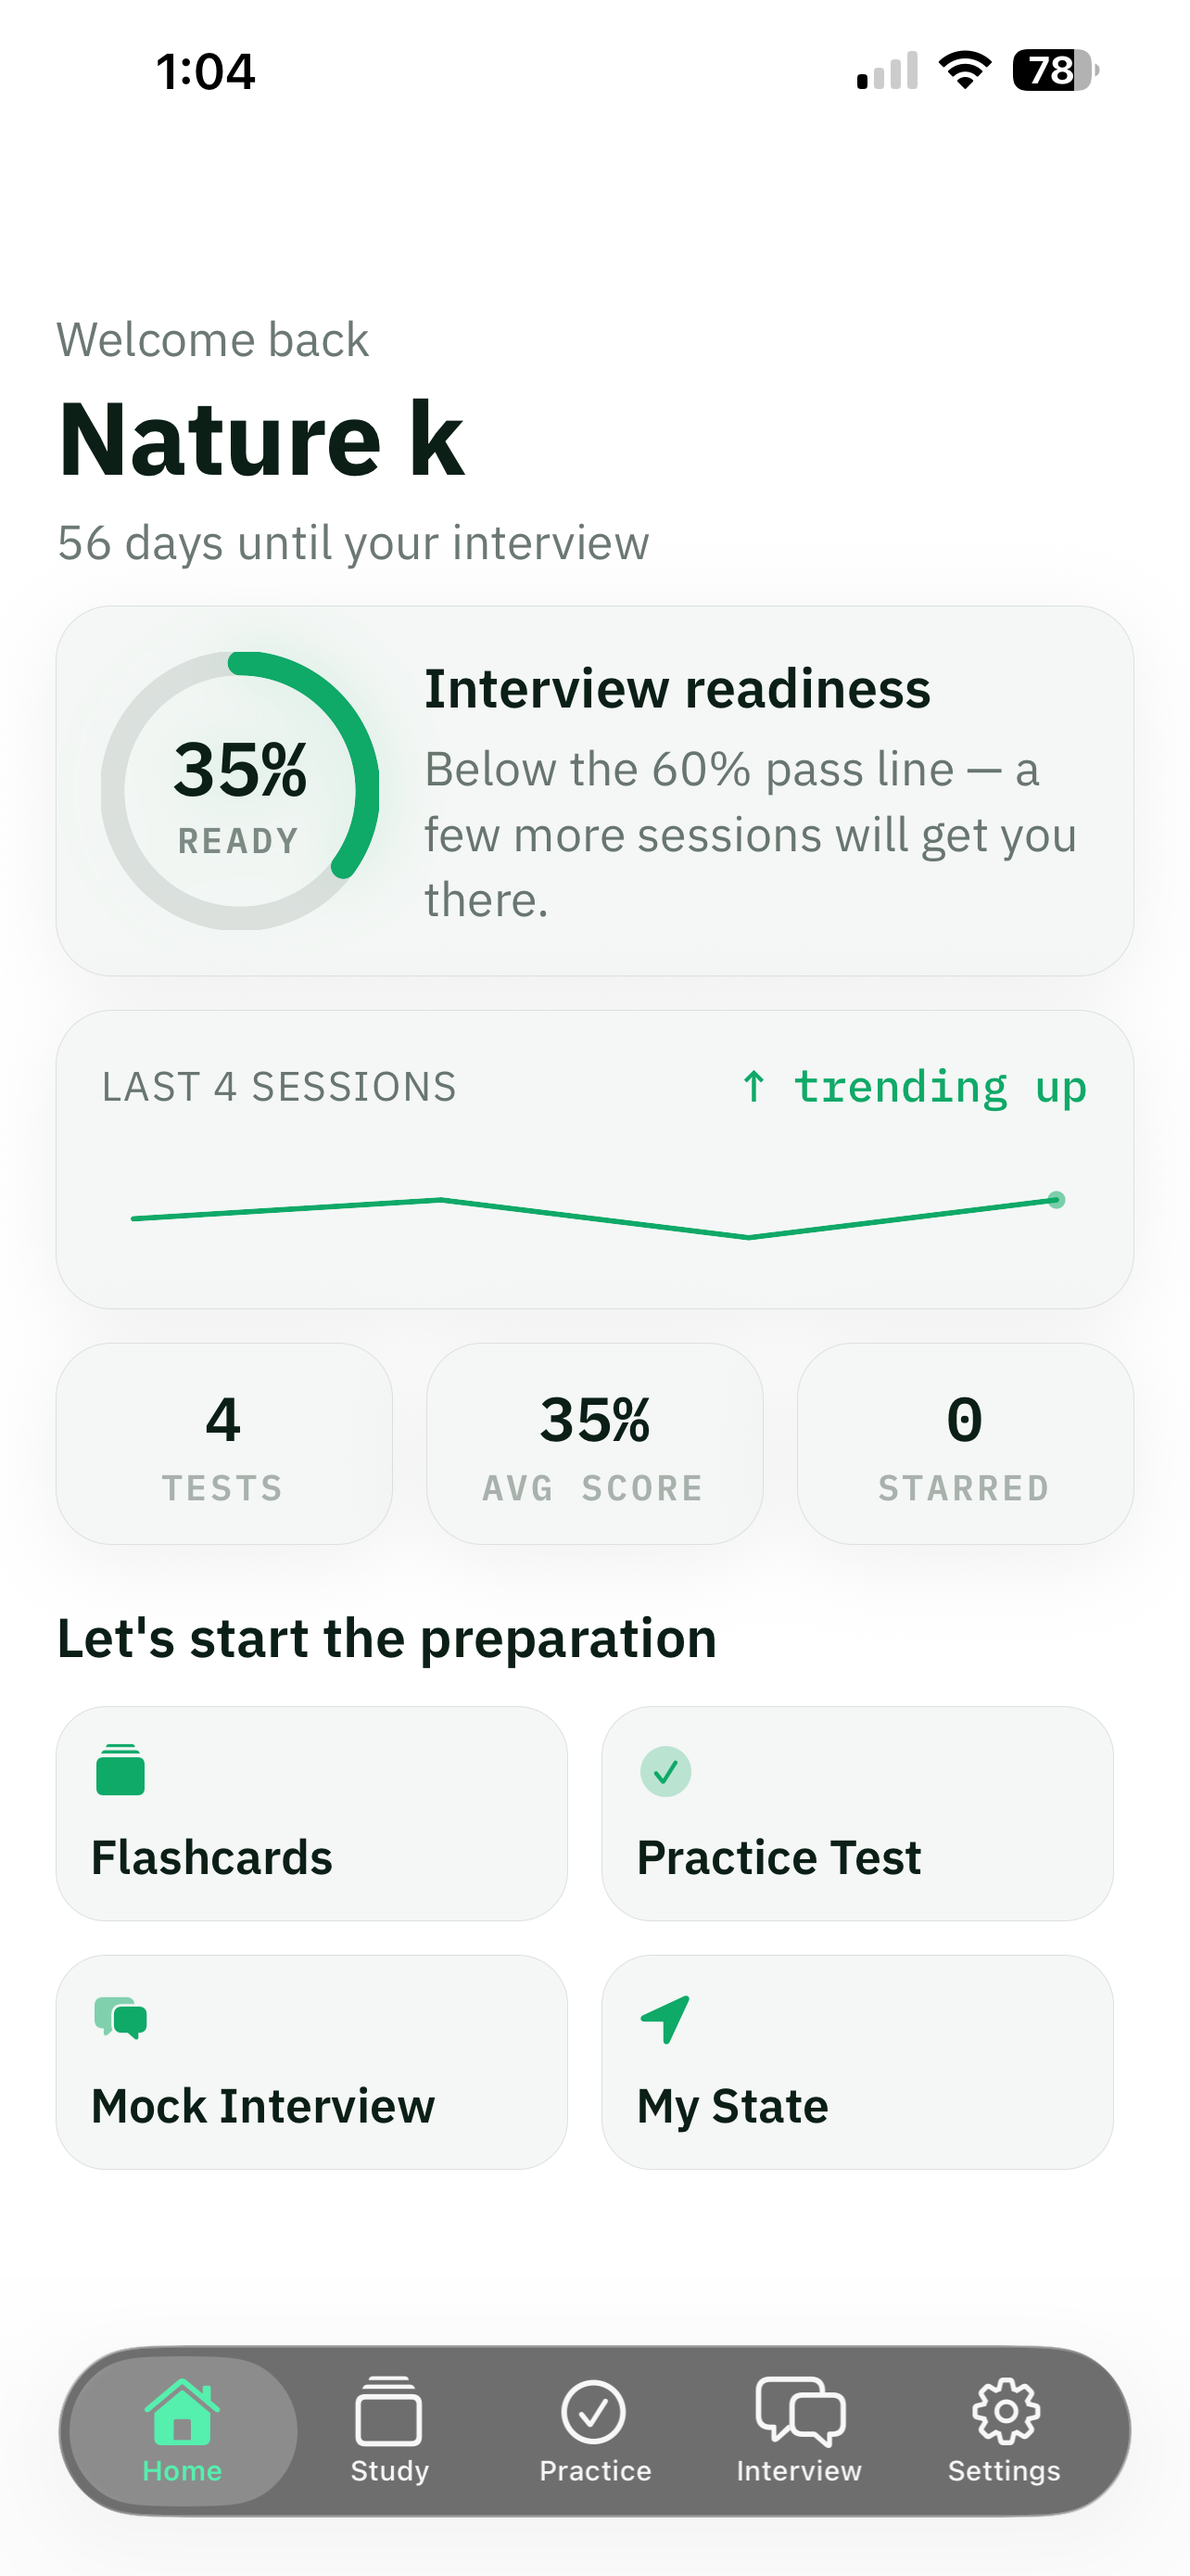
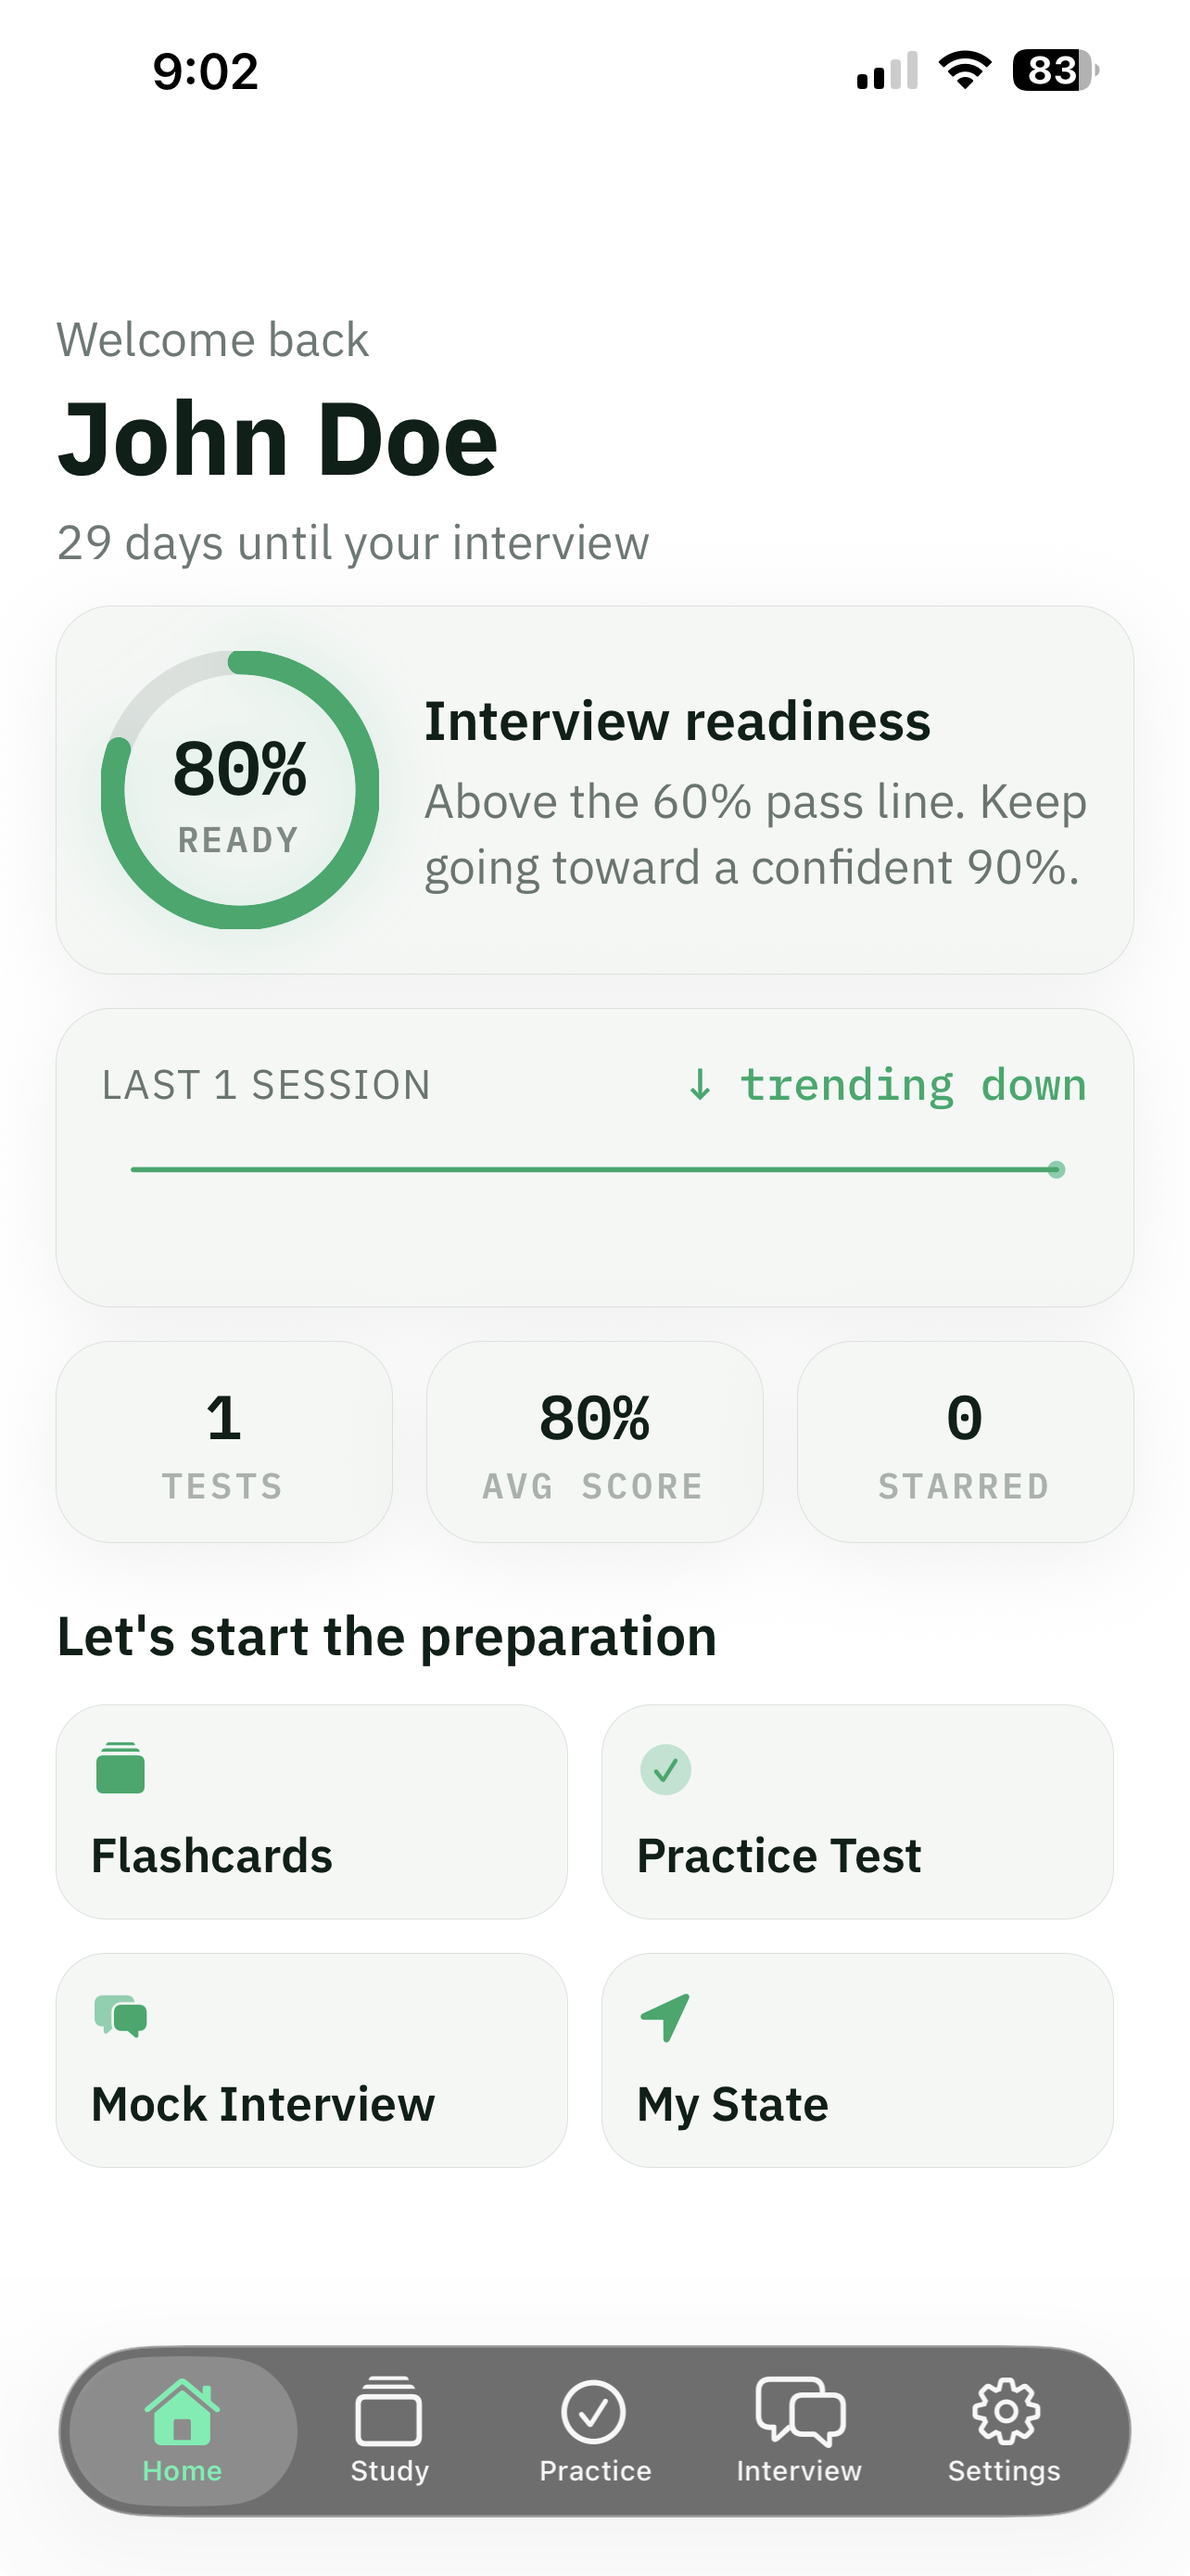
Store: John Doe Home screenshot staged; screenshots are version-locked after all
Apple's API refuses screenshot changes on a live version
(ENTITY_ERROR.ATTRIBUTE.INVALID.INVALID_STATE), so the inherited note that they
could be swapped without a release was wrong. The new slide goes onto 1.0.1 once
eas submit creates it. Old Nature-k slide backed up in the scratchpad.

diff --git a/docs/store/NEXT-RELEASE.md b/docs/store/NEXT-RELEASE.md
@@ -100,12 +100,21 @@ number.
 Screenshot 3 (`store-assets/screenshots/3-home-readiness.png`) shows a fake name —
 **"Nature k"** — and **35% readiness, "Below the 60% pass line"**. The storefront's third
 slide is the app predicting that the user will fail, under a placeholder name. It is the
-single change most likely to move the install rate, and **it can be replaced without a
-release** — screenshots are not version-locked.
+single change most likely to move the install rate.
 
-It cannot be produced from this machine: the simulator is unavailable here, and the only
-candidate on hand (the website's John Doe shot) is a 1206×1900 crop, not a device capture.
-Two minutes on the phone:
+**Correction, 2026-09-08:** an earlier version of this note said screenshots could be
+replaced without a release. That is wrong. Apple's API answers
+`ENTITY_ERROR.ATTRIBUTE.INVALID.INVALID_STATE` for the screenshot set of a live version -
+screenshots can only be changed on a version that is being prepared. So the new slide goes
+onto **1.0.1**, after `eas submit` creates it, with
+`node tools/asc/replace-screenshot.js store-assets/screenshots/3-home-readiness.png 3 1.0.1`.
+
+**Done, 2026-09-08:** Sandeep took it on the phone - John Doe, 80% ready, green gauge,
+above the pass line - and it is staged as `store-assets/screenshots/3-home-readiness.png`
+(1284×2778). It also exposed two Home-screen bugs, fixed in 1.0.1: one session read
+"trending down" (a trend needs two points; it now says "first session"), and the tile said
+"1 TESTS". A shot after four or five tests would show "trending up" and a non-zero starred
+count; worth retaking for the version after this one. The recipe, for next time:
 
 1. Settings → Personal → First name: **John Doe**. Interview date: something 6–10 weeks out.
 2. Play practice tests until the Home gauge is green and above the pass line (four or five
